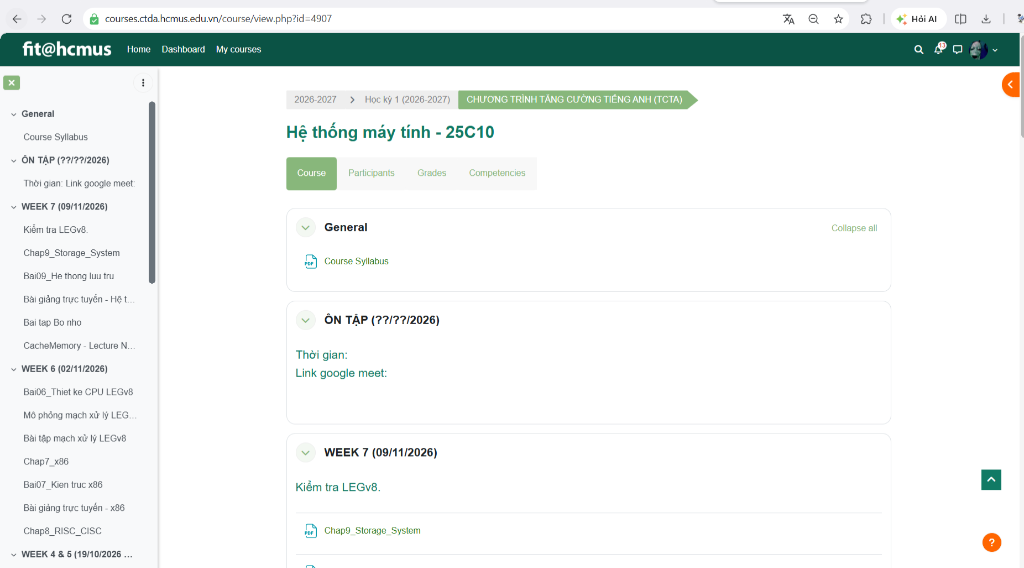
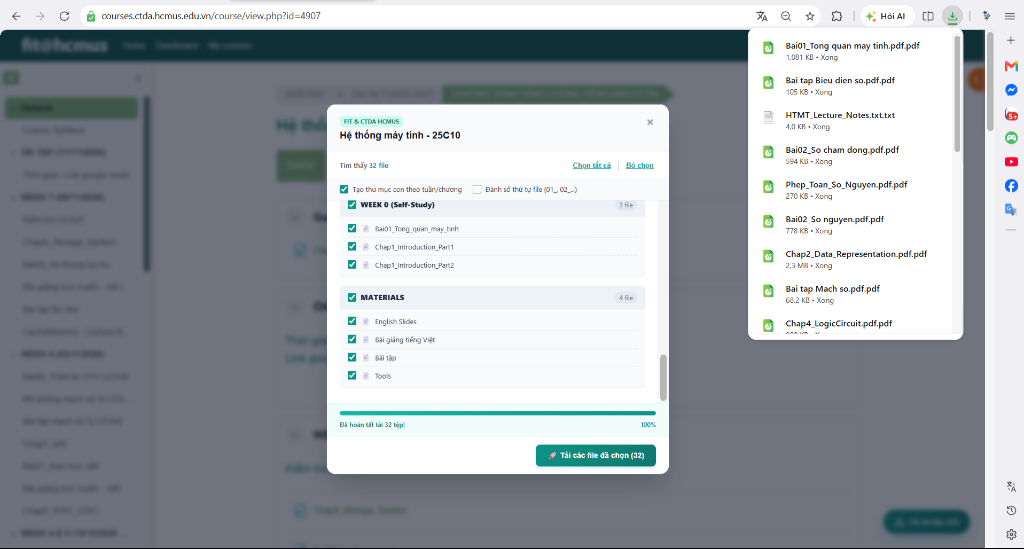
docs: update demo screenshot with user actual usage and fix duplicate file extensions

diff --git a/background.js b/background.js
@@ -20,6 +20,12 @@ function sanitize(name) {
     .substring(0, 120);
 }
 
+// Clean and prevent duplicate extensions like .pdf.pdf or .txt.txt
+function fixDuplicateExtension(name) {
+  if (!name) return "file";
+  return name.replace(/(\.[a-zA-Z0-9]{2,5})\1+$/i, "$1");
+}
+
 // Extract file extension and filename from URL or Content-Disposition
 async function resolveFileInfo(url, fallbackTitle) {
   try {
@@ -31,7 +37,6 @@ async function resolveFileInfo(url, fallbackTitle) {
     let detectedName = "";
     const disposition = response.headers.get("content-disposition");
     if (disposition) {
-      // filename*=UTF-8''... or filename="..."
       const utfMatch = disposition.match(/filename\*=UTF-8''([^;]+)/i);
       if (utfMatch && utfMatch[1]) {
         detectedName = decodeURIComponent(utfMatch[1]);
@@ -54,31 +59,27 @@ async function resolveFileInfo(url, fallbackTitle) {
       } catch (e) {}
     }
 
-    // Extract extension
     let ext = "";
     if (detectedName && detectedName.includes(".")) {
       ext = detectedName.substring(detectedName.lastIndexOf(".")).toLowerCase();
     }
 
-    // If title already has an extension
-    if (fallbackTitle && /\.[a-zA-Z0-9]{2,5}$/i.test(fallbackTitle)) {
-      return { finalName: fallbackTitle, ext: "" };
+    let finalName = detectedName || fallbackTitle || "file";
+    if (ext && !finalName.toLowerCase().endsWith(ext)) {
+      finalName += ext;
     }
 
-    return {
-      finalName: (detectedName || fallbackTitle) + (ext && !fallbackTitle.endsWith(ext) ? ext : ""),
-      ext: ext
-    };
+    finalName = fixDuplicateExtension(finalName);
+    return { finalName, ext };
   } catch (err) {
-    // If HEAD request fails, fallback safely
-    let ext = "";
-    if (fallbackTitle.toLowerCase().includes("pdf") || fallbackTitle.toLowerCase().includes("syllabus")) {
-      ext = ".pdf";
+    let finalName = fallbackTitle || "file";
+    if (!/\.[a-zA-Z0-9]{2,5}$/i.test(finalName)) {
+      if (finalName.toLowerCase().includes("pdf") || finalName.toLowerCase().includes("slide")) {
+        finalName += ".pdf";
+      }
     }
-    return {
-      finalName: fallbackTitle + (fallbackTitle.endsWith(ext) ? "" : ext),
-      ext: ext
-    };
+    finalName = fixDuplicateExtension(finalName);
+    return { finalName, ext: "" };
   }
 }
 
@@ -106,23 +107,20 @@ async function processDownloads({ courseName, items, useFolders = true, addIndex
     broadcastProgress();
 
     try {
-      // Add redirect=1 for Moodle resource links if not already present
       let downloadUrl = item.url;
       if (downloadUrl.includes("/mod/resource/view.php") && !downloadUrl.includes("redirect=1")) {
         downloadUrl += (downloadUrl.includes("?") ? "&" : "?") + "redirect=1";
       }
 
-      // Resolve real file info
       const info = await resolveFileInfo(downloadUrl, item.title);
       let filename = sanitize(info.finalName || item.title);
+      filename = fixDuplicateExtension(filename);
 
-      // Add index prefix if requested (e.g. 01_Syllabus.pdf)
       if (addIndex) {
         const prefix = String(i + 1).padStart(2, "0");
         filename = `${prefix}_${filename}`;
       }
 
-      // Structure directories
       const cleanSection = sanitize(item.section || "Chung");
       let fullPath = "";
       if (useFolders) {
@@ -131,8 +129,7 @@ async function processDownloads({ courseName, items, useFolders = true, addIndex
         fullPath = `${cleanCourse}/${filename}`;
       }
 
-      // Trigger download via chrome.downloads API
-      await new Promise((resolve, reject) => {
+      await new Promise((resolve) => {
         chrome.downloads.download(
           {
             url: downloadUrl,
@@ -143,7 +140,7 @@ async function processDownloads({ courseName, items, useFolders = true, addIndex
             if (chrome.runtime.lastError) {
               console.warn("Download error for:", fullPath, chrome.runtime.lastError.message);
               downloadState.errors.push({ file: item.title, error: chrome.runtime.lastError.message });
-              resolve(); // Continue with next file
+              resolve();
             } else {
               resolve(downloadId);
             }
@@ -151,7 +148,6 @@ async function processDownloads({ courseName, items, useFolders = true, addIndex
         );
       });
 
-      // Pause briefly between downloads to prevent flooding the browser
       await new Promise((r) => setTimeout(r, 650));
     } catch (err) {
       console.error("Error processing item:", item, err);
@@ -173,7 +169,6 @@ function broadcastProgress(isDone = false) {
     isDone
   };
 
-  // Notify extension popups or content scripts
   chrome.runtime.sendMessage(payload).catch(() => {});
   chrome.tabs.query({ active: true }, (tabs) => {
     tabs.forEach((tab) => {
@@ -182,11 +177,10 @@ function broadcastProgress(isDone = false) {
   });
 }
 
-// Message Listener
 chrome.runtime.onMessage.addListener((message, sender, sendResponse) => {
   if (message.action === "START_DOWNLOAD") {
     processDownloads(message.data).then(sendResponse);
-    return true; // Keep channel open for async response
+    return true;
   }
 
   if (message.action === "GET_STATUS") {
